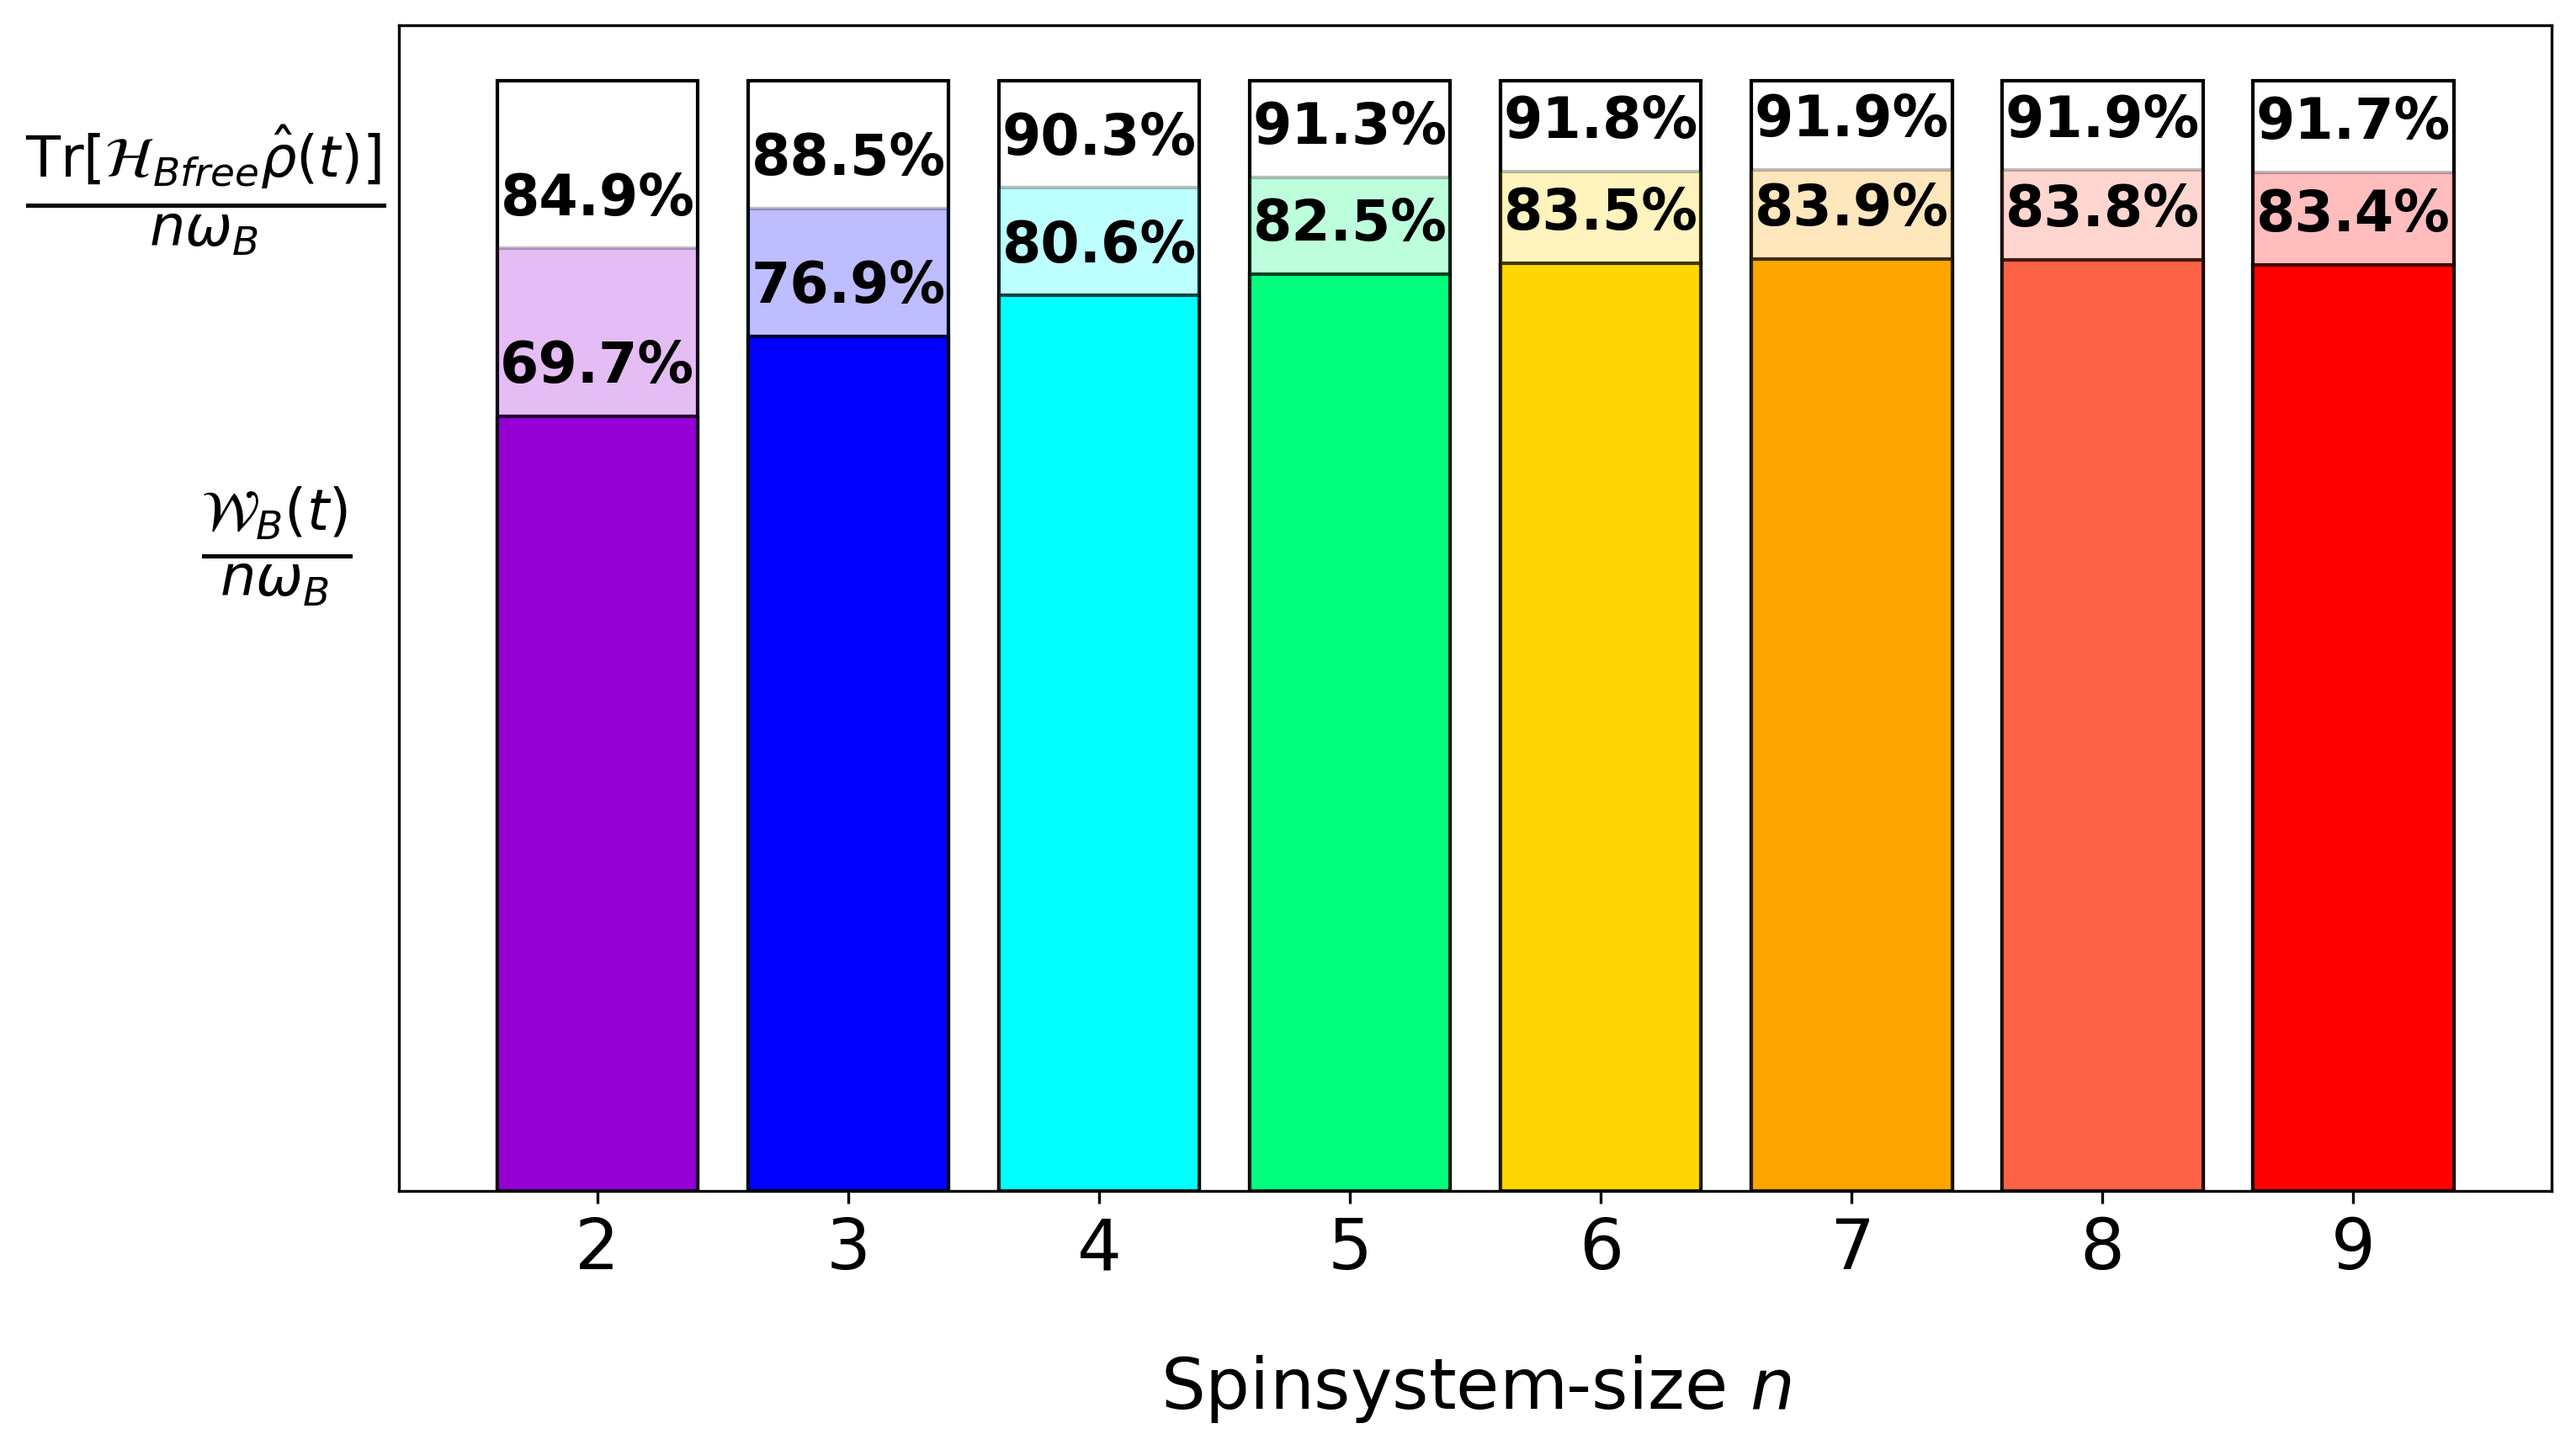
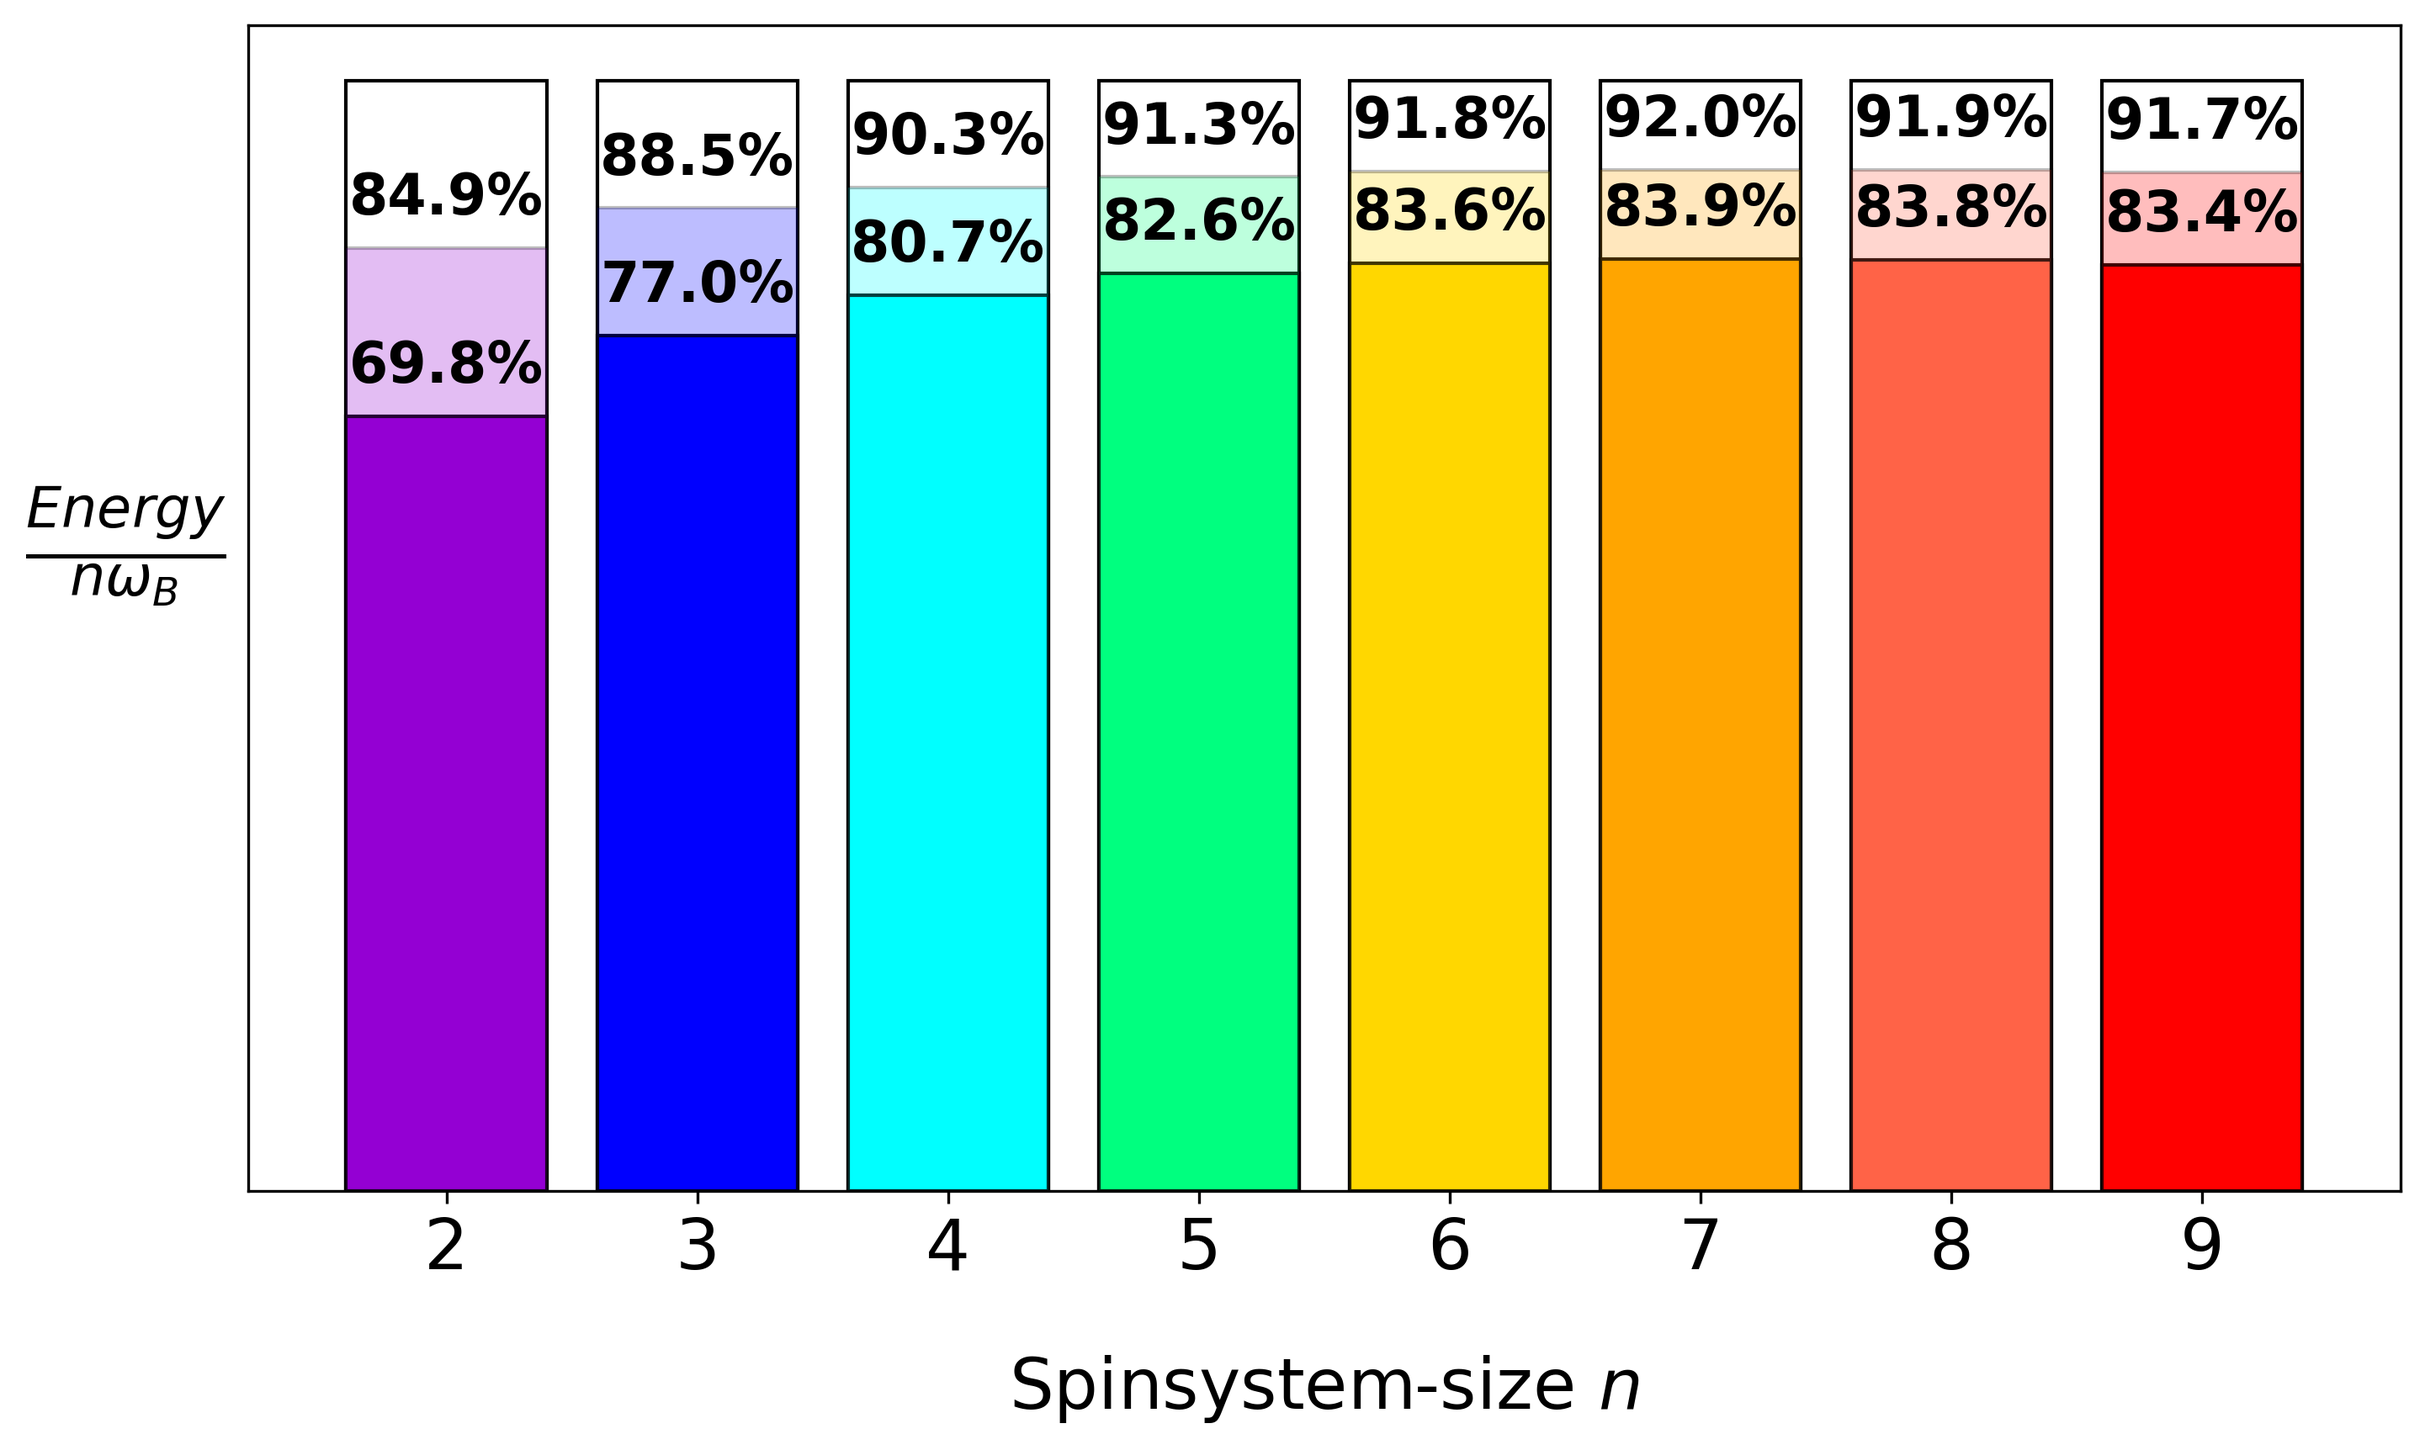
s

diff --git a/Ergotropy-Battery.py b/Ergotropy-Battery.py
@@ -24,7 +24,7 @@ T_h = w0/(np.log(2))   # temp Einheit von  hb*omega durch kb
 
 T_c = 1.2
 
-N=39 # Größe Hilbertraum von vibronic system
+N=46 # Größe Hilbertraum von vibronic system
 
 
 #Bolzman verteilung funktion(frequenz, inv temp)
@@ -405,8 +405,10 @@ ax.bar(7,filled_energy[5],edgecolor='black',facecolor='orange',alpha=transpa)
 ax.bar(8,filled_energy[6],edgecolor='black',facecolor='tomato',alpha=transpa)
 ax.bar(9,filled_energy[7],edgecolor='black',facecolor='red',alpha=transpa)
 
-ax.set_ylabel(r"$\frac{\mathcal{W}_{B}(t)} {  n \omega_B}$",fontsize=23,rotation=0,labelpad=35  )
-ax.text(-0.090, 0.80, r"$\frac{\mathrm{Tr}[\mathcal{H}_{B free} \hat{\rho}(t)]}{ n \omega_B }$", transform=ax.transAxes,rotation=0,fontsize=23, va='bottom', ha='center')
+#ax.set_ylabel(r"$\frac{\mathcal{W}_{B}(t)} {  n \omega_B}$",fontsize=23,rotation=0,labelpad=35  )
+#ax.text(-0.090, 0.80, r"$\frac{\mathrm{Tr}[\mathcal{H}_{B free} \hat{\rho}(t)]}{ n \omega_B }$", transform=ax.transAxes,rotation=0,fontsize=23, va='bottom', ha='center')
+ax.set_ylabel(r"$\frac{Energy} {  n \omega_B}$",fontsize=23,rotation=0,labelpad=35  )
+
 ax.set_xlabel(
     r"Spinsystem-size $n$",
     fontsize=20,

diff --git a/Red_vs_Lind_Dem.py b/Red_vs_Lind_Dem.py
@@ -220,12 +220,12 @@ plt.plot(tlist, res_BR.expect[0], '--', color='green',label=r" Bloch-Redfield: $
 plt.plot(tlist, res_L.expect[1],color='red', label=r" Lindblad: $ P_e^D $ ")
 plt.plot(tlist, res_BR.expect[1], '--',color='red', label=r" Bloch-Redfield: $ P_e^D $ ")
 plt.xlabel(r"$t \nu $",fontsize=20)
-plt.ylabel(r"$ P_e $",rotation=0, labelpad=25, fontsize=20)
+plt.ylabel(r"$ P_e(t) $",rotation=0, labelpad=25, fontsize=20)
 plt.tick_params(labelsize=17)
 #plt.axhline(np.abs(ssB),xmin=tlist[0],xmax=tlist[-1])
 #plt.title('Identischer Zerfall: Lindblad = Bloch-Redfield (gematchtes Spektrum)')
 plt.legend(fontsize=17)
 plt.grid(True)
-plt.savefig("Red_finalt.png", dpi=300, bbox_inches="tight")
+plt.savefig("Red_final.png", dpi=300, bbox_inches="tight")
 plt.show()
 
